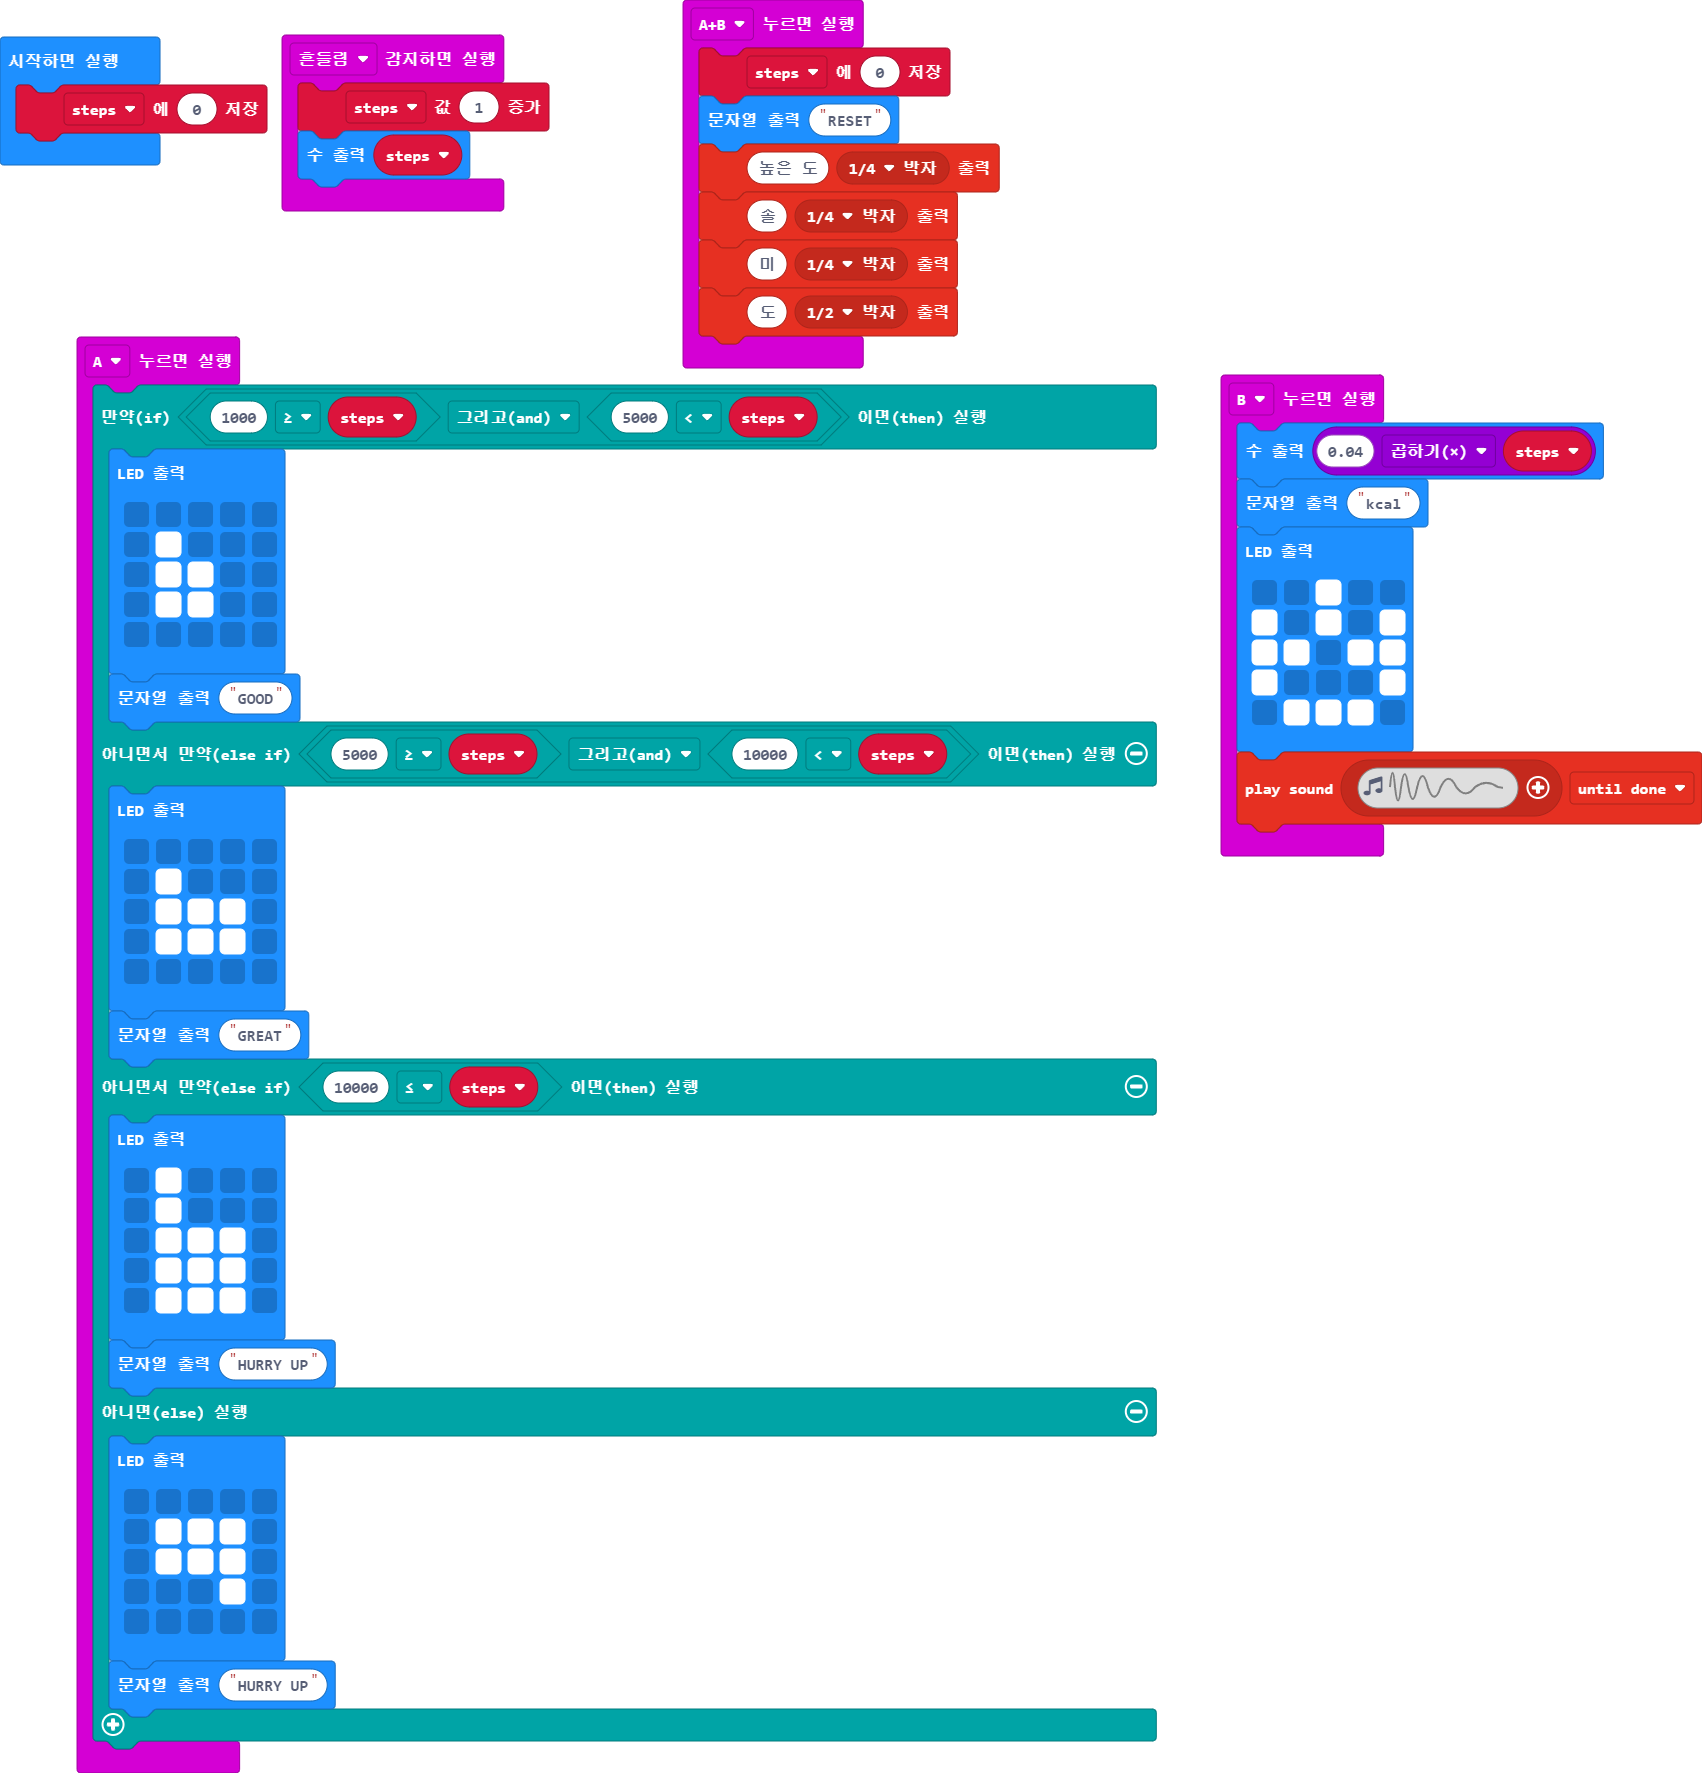
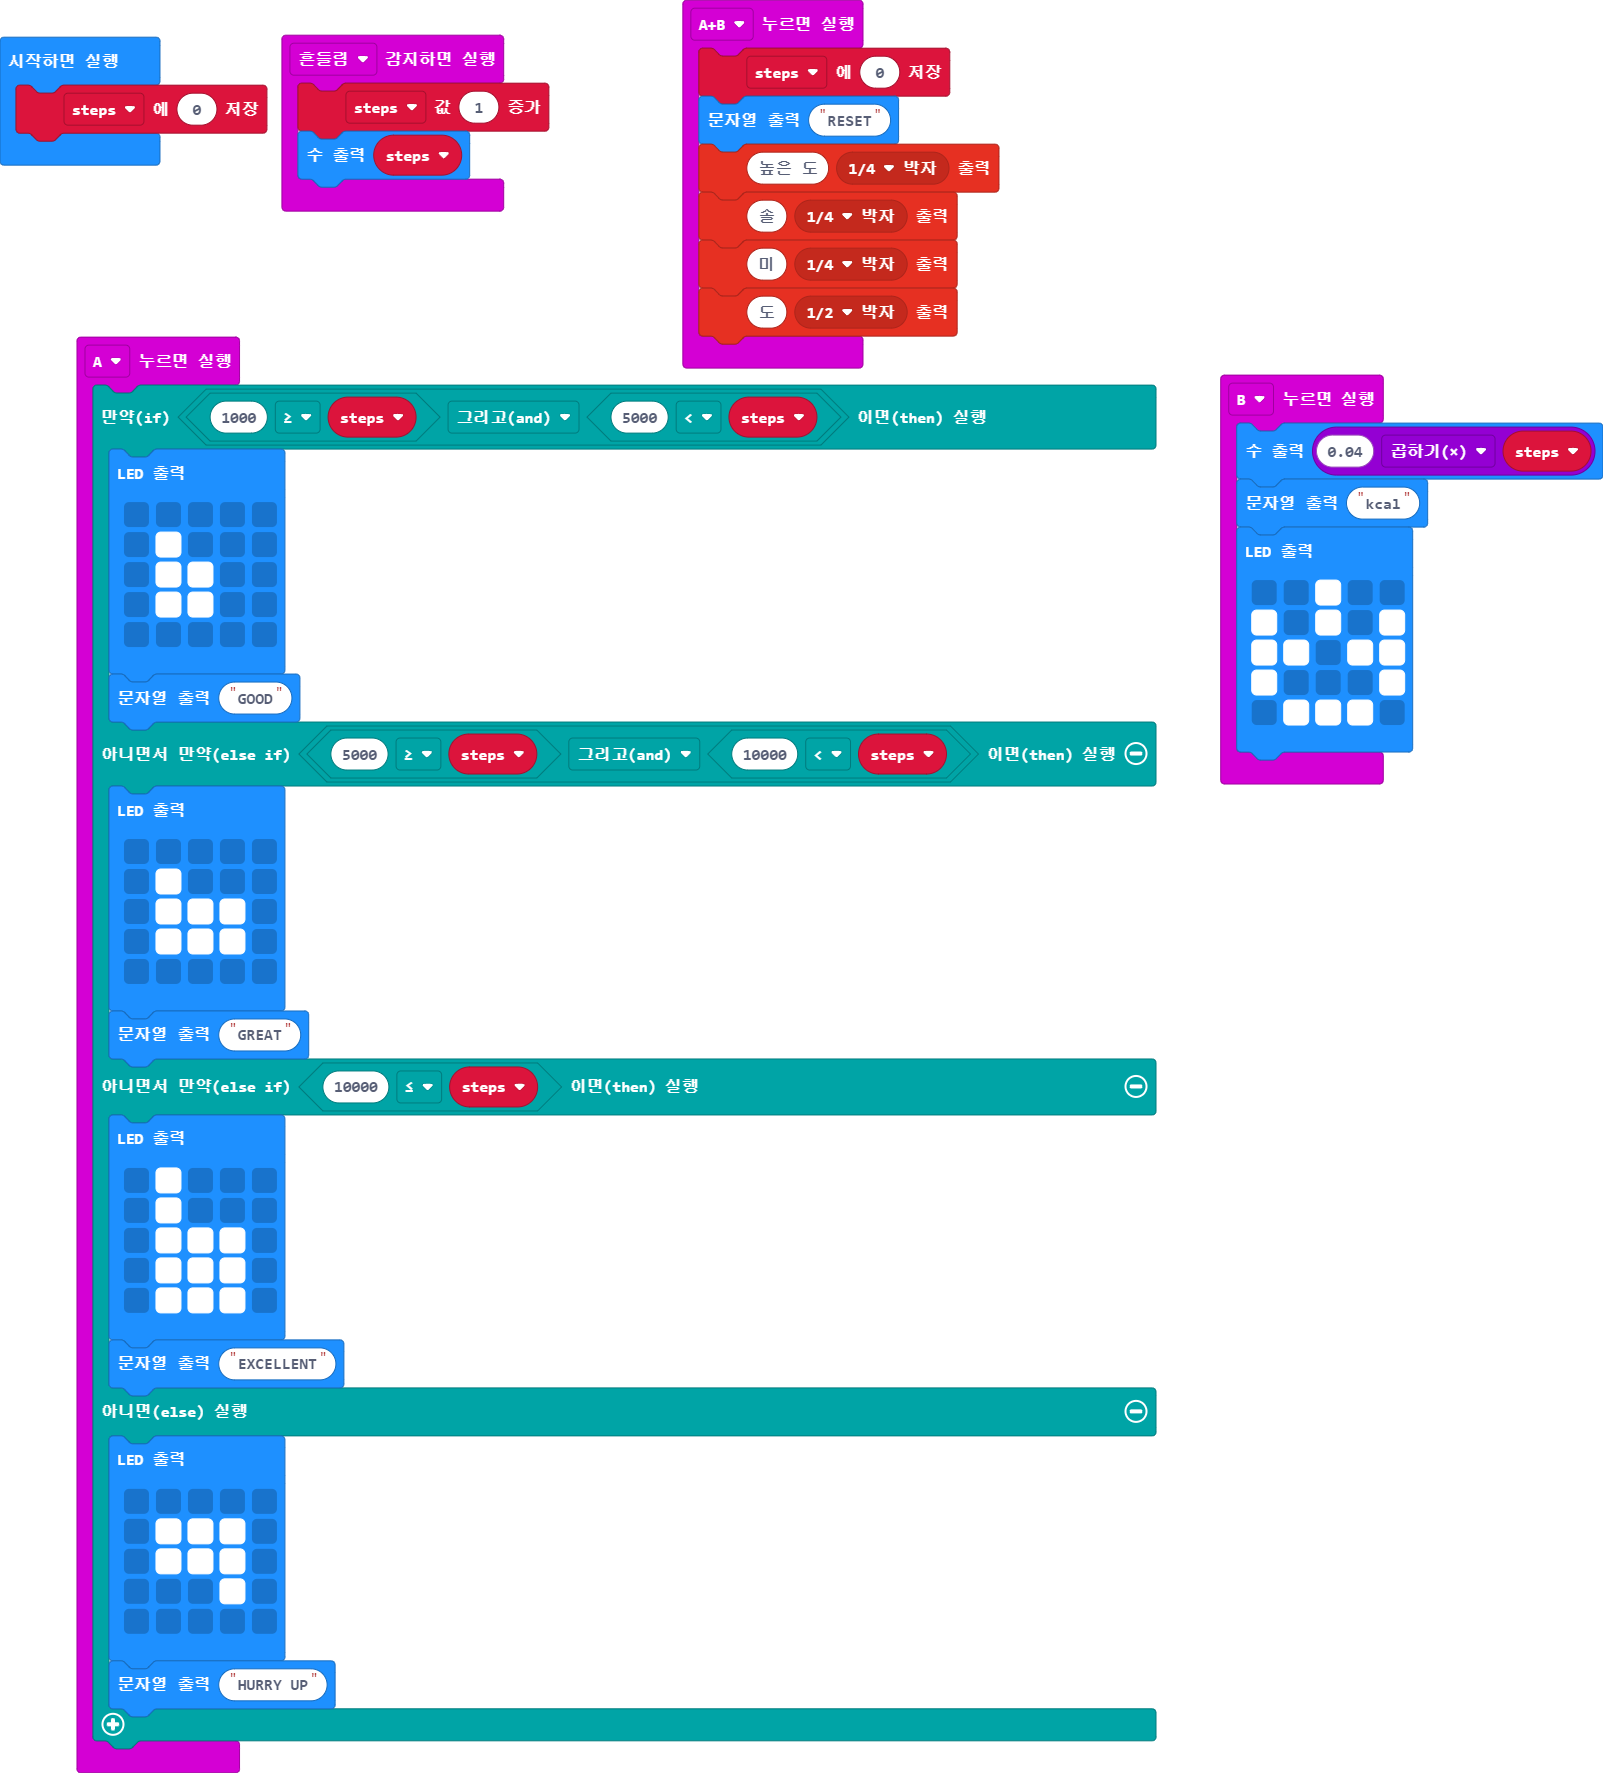
main.blocks, main.ts 업데이트하기

diff --git a/main.ts b/main.ts
@@ -25,7 +25,7 @@ input.onButtonPressed(Button.A, function () {
             . # # # .
             . # # # .
             `)
-        basic.showString("HURRY UP")
+        basic.showString("EXCELLENT")
     } else {
         basic.showLeds(`
             . . . . .
@@ -59,7 +59,6 @@ input.onButtonPressed(Button.B, function () {
         # . . . #
         . # # # .
         `)
-    music.playSoundEffect(music.createSoundEffect(WaveShape.Sine, 5000, 0, 255, 0, 500, SoundExpressionEffect.None, InterpolationCurve.Linear), SoundExpressionPlayMode.UntilDone)
 })
 let steps = 0
 steps = 0
